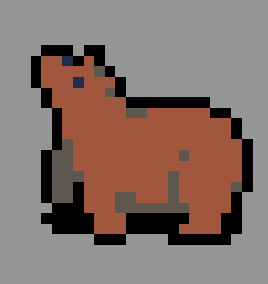
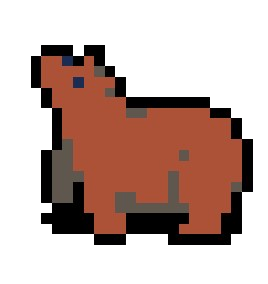
background added for rat and bear and animal picture background removed

diff --git a/source/core/src/main/com/csse3200/game/components/screendisplay/LoseScreenDisplay.java b/source/core/src/main/com/csse3200/game/components/screendisplay/LoseScreenDisplay.java
@@ -17,6 +17,7 @@ import java.util.ArrayList;
 import static com.csse3200.game.GdxGame.ScreenType.MAIN_MENU;
 import static com.csse3200.game.files.FileLoader.readClass;
 import static com.csse3200.game.screens.LoseScreen.PLAYER_DEAD;
+import static com.csse3200.game.services.ServiceLocator.getResourceService;
 
 /**
  * Display and actions for the losing/death screen.
@@ -47,6 +48,21 @@ public class LoseScreenDisplay extends UIComponent {
             "images/how-to-play/animals/cthulu.png",
             "images/how-to-play/animals/kitsune.png",
             "images/how-to-play/animals/birdman.png"
+    };
+
+    String[] backgroundPaths = {
+            "images/death_screen/rat_bg.jpg",
+            "images/death_screen/bear_bg.jpg",
+            "images/death_screen/rat_bg.png",
+            "images/death_screen/rat_bg.png",
+            "images/death_screen/rat_bg.png",
+            "images/death_screen/rat_bg.png",
+            "images/death_screen/rat_bg.png",
+            "images/death_screen/rat_bg.png",
+            "images/death_screen/rat_bg.png",
+            "images/death_screen/rat_bg.png",
+            "images/death_screen/rat_bg.png",
+            "images/death_screen/rat_bg.png",
     };
 
     public static String capitalizeFirstChar(String str) {
@@ -98,6 +114,10 @@ public class LoseScreenDisplay extends UIComponent {
         animalDeathScreens.add("You are but a fleeting whisper in the vast eternity of my dreams. Insignificant, erased!");
         animalDeathScreens.add("Deceived by shadows and tricked by tales, your end came at the hands of my cunning!");
         animalDeathScreens.add("From the skies I watched, and with swift wings I struck. Did you really think you could escape my gaze?");
+
+        Image background = new Image(new Texture(Gdx.files.internal(backgroundPaths[1])));
+        background.setFillParent(true); // Make it fill the screen
+        stage.addActor(background);
         table = new Table();
         table.setFillParent(true);
         LastAttackAnimal = readClass(String.class, "configs/LastAttack.json", FileLoader.Location.LOCAL);
